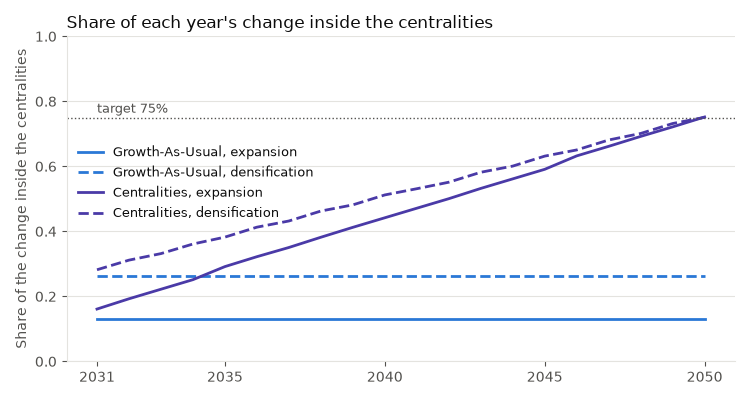
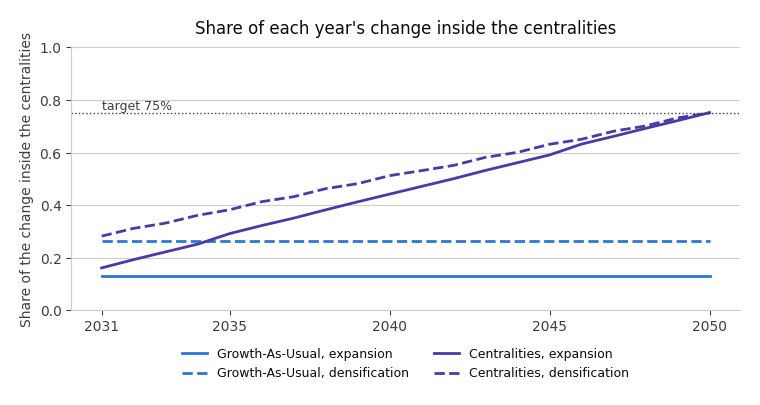
Fix the layout and contrast of the README figures
Centre the maps and titles, use a darker grey for the built-up cells, split the
long panel titles over two lines and move the legends below the plots.

diff --git a/docs/make_figures.py b/docs/make_figures.py
@@ -12,6 +12,7 @@ import rasterio
 import matplotlib
 matplotlib.use("Agg")
 import matplotlib.pyplot as plt
+from matplotlib.colors import ListedColormap
 
 from SuSceMod.simulation import data_utilities, input_handling, scenarios
 
@@ -24,7 +25,8 @@ SCENARIOS = [
     ("density_based", "Density-based", "#eb6834"),
     ("densification_only", "Densification-only", "#1baf7a"),
 ]
-INK, MUTED, GRID = "#0b0b0b", "#52514e", "#e4e3df"
+INK, MUTED, GRID = "#0b0b0b", "#3f3e3b", "#cfcdc8"
+BASE_GREY = "#97958f"  # the built-up cells before the simulation, dark enough to see on white
 
 plt.rcParams.update({
     "figure.facecolor": "white", "axes.facecolor": "white", "savefig.facecolor": "white",
@@ -38,34 +40,67 @@ def read(path):
         return src.read(1)
 
 
+def built_up_extent(built_up, pad=20):
+    """Column and row limits around the built-up cells, and the height / width of that box."""
+    rows, cols = np.nonzero(built_up > 0)
+    xlim = (cols.min() - pad, cols.max() + pad)
+    ylim = (rows.max() + pad, rows.min() - pad)
+    return xlim, ylim, (ylim[0] - ylim[1]) / (xlim[1] - xlim[0])
+
+
+def map_figure(n_panels, ratio, panel_title_lines=1, width=7.0, margin=0.35):
+    """
+    A figure of n_panels maps below each other. Every map has exactly the shape of the study area and sits
+    in the middle of the figure, with its title centred above it.
+    """
+    title_h = 0.3 + 0.2 * panel_title_lines
+    top, bottom = 0.75, 0.2
+    panel_h = width * ratio
+    fig_w = width + 2 * margin
+    fig_h = top + n_panels * (panel_h + title_h) + bottom
+    fig = plt.figure(figsize=(fig_w, fig_h))
+    axes = []
+    for i in range(n_panels):
+        y_bottom = fig_h - top - (i + 1) * (panel_h + title_h)   # title_h of space above every map for its title
+        ax = fig.add_axes([margin / fig_w, y_bottom / fig_h, width / fig_w, panel_h / fig_h])
+        axes.append(ax)
+    return fig, axes, fig_h
+
+
+def draw_map(ax, start, changed, color, xlim, ylim, title):
+    """The built-up cells before the simulation in grey, the cells that changed in colour."""
+    ax.imshow(np.where(start > 0, 0.0, np.nan), cmap=ListedColormap([BASE_GREY]), vmin=0, vmax=1,
+              interpolation="nearest")
+    rows, cols = np.nonzero(changed)
+    ax.scatter(cols, rows, s=1.6, color=color, linewidths=0)
+    ax.set_xlim(*xlim)
+    ax.set_ylim(*ylim)
+    ax.set_aspect("equal")
+    ax.set_title(title, loc="center", fontsize=11, pad=8)
+    ax.set_xticks([])
+    ax.set_yticks([])
+    for spine in ax.spines.values():
+        spine.set_visible(False)
+
+
 def figure_changes():
     start = read(os.path.join(EXAMPLES, "input_rasters", "BU_2020.tif"))
-    fig, axes = plt.subplots(len(SCENARIOS), 1, figsize=(8, 3.2 * len(SCENARIOS)))
-    rows_b, cols_b = np.nonzero(start > 0)
-    pad = 20
+    xlim, ylim, ratio = built_up_extent(start)
+    fig, axes, fig_h = map_figure(len(SCENARIOS), ratio)
     for ax, (folder, label, color) in zip(axes, SCENARIOS):
         end = read(os.path.join(EXAMPLES, "output", folder, "sim_2030.tif"))
         changed = (end != start) & ~np.isnan(end)
-        ax.imshow(np.where(start > 0, 1.0, np.nan), cmap="Greys", vmin=0, vmax=3, interpolation="nearest")
-        rows, cols = np.nonzero(changed)
-        ax.scatter(cols, rows, s=2.5, color=color, linewidths=0)
-        ax.set_title(f"{label}: {int(changed.sum()):,} cells changed", loc="left", fontsize=11)
-        ax.set_xlim(cols_b.min() - pad, cols_b.max() + pad)
-        ax.set_ylim(rows_b.max() + pad, rows_b.min() - pad)
-        ax.set_xticks([])
-        ax.set_yticks([])
-        for spine in ax.spines.values():
-            spine.set_visible(False)
-    fig.suptitle("Cells that change between 2020 and 2030 (grey = built-up in 2020)", x=0.01, ha="left", fontsize=12)
-    fig.tight_layout(rect=(0, 0, 1, 0.97))
-    fig.savefig(os.path.join(OUT, "scenario_changes.png"), dpi=100, bbox_inches="tight", pad_inches=0.15)
+        draw_map(ax, start, changed, color, xlim, ylim, f"{label}: {int(changed.sum()):,} cells changed")
+    fig.suptitle("Cells that change between 2020 and 2030\n(grey = built-up in 2020)", x=0.5, y=1 - 0.1 / fig_h,
+                 ha="center", va="top", fontsize=12)
+    fig.savefig(os.path.join(OUT, "scenario_changes.png"), dpi=100)
     plt.close(fig)
 
 
 def figure_trends():
     start = read(os.path.join(EXAMPLES, "input_rasters", "BU_2020.tif"))
     start_counts = {c: int(np.sum(start == c)) for c in range(4)}
-    fig, axes = plt.subplots(1, 4, figsize=(12, 3.4), sharex=True)
+    fig, axes = plt.subplots(1, 4, figsize=(12, 4), sharex=True)
     for folder, label, color in SCENARIOS:
         df = pd.read_csv(os.path.join(EXAMPLES, "output", folder, "class_counts_2020_2030.csv"), index_col=0)
         df = df[~df.index.astype(str).isin(["nan"])]
@@ -74,17 +109,18 @@ def figure_trends():
             values = [0] + list(df.loc[float(c)].values - start_counts[c])
             ax.plot(years, values, color=color, linewidth=2, label=label)
     for ax, c in zip(axes, range(4)):
-        ax.set_title(f"Class {c}", loc="left", fontsize=11)
-        ax.axhline(0, color=GRID, linewidth=1)
+        ax.set_title(f"Class {c}", loc="center", fontsize=11)
+        ax.axhline(0, color=MUTED, linewidth=1)
         ax.grid(axis="y", color=GRID, linewidth=0.8)
         ax.set_axisbelow(True)
         ax.set_xticks([2020, 2025, 2030])
         for side in ("top", "right"):
             ax.spines[side].set_visible(False)
     axes[0].set_ylabel("Change in cells since 2020")
-    axes[0].legend(frameon=False, fontsize=9, loc="best")
-    fig.suptitle("Change in cell count per density class", x=0.01, ha="left", fontsize=12)
-    fig.tight_layout(rect=(0, 0, 1, 0.94))
+    handles, labels = axes[0].get_legend_handles_labels()
+    fig.legend(handles, labels, loc="lower center", ncol=len(SCENARIOS), frameon=False, fontsize=10)
+    fig.suptitle("Change in cell count per density class", x=0.5, ha="center", fontsize=12)
+    fig.tight_layout(rect=(0, 0.08, 1, 0.94))
     fig.savefig(os.path.join(OUT, "class_trends.png"), dpi=100)
     plt.close(fig)
 
@@ -128,30 +164,20 @@ def centralities_runs():
 def figure_centralities_maps(runs):
     start_2030, gau, centralities, zones = runs
     built_up = read(os.path.join(EXAMPLES, "input_rasters", "BU_2020.tif"))
-    rows_b, cols_b = np.nonzero(built_up > 0)
-    pad = 20
+    xlim, ylim, ratio = built_up_extent(built_up)
     panels = [("Growth-As-Usual", GAU_COLOR, gau[2050]), ("Centralities", CENTRALITIES_COLOR, centralities[2050])]
 
-    fig, axes = plt.subplots(len(panels), 1, figsize=(8, 3.4 * len(panels)))
+    fig, axes, fig_h = map_figure(len(panels), ratio, panel_title_lines=2)
     for ax, (label, color, end) in zip(axes, panels):
         changed = (end != start_2030) & ~np.isnan(end)
         exp_share, dens_share = input_handling.calculate_central_shares(start_2030, end, zones, decimals=2)
-        ax.imshow(np.where(start_2030 > 0, 1.0, np.nan), cmap="Greys", vmin=0, vmax=3, interpolation="nearest")
-        ax.contour((zones == 1).astype(float), levels=[0.5], colors=INK, linewidths=0.5)
-        rows, cols = np.nonzero(changed)
-        ax.scatter(cols, rows, s=2.5, color=color, linewidths=0)
-        ax.set_title(f"{label}: {int(changed.sum()):,} cells changed, {exp_share:.0%} of the expansion and "
-                     f"{dens_share:.0%} of the densification inside the centralities", loc="left", fontsize=10)
-        ax.set_xlim(cols_b.min() - pad, cols_b.max() + pad)
-        ax.set_ylim(rows_b.max() + pad, rows_b.min() - pad)
-        ax.set_xticks([])
-        ax.set_yticks([])
-        for spine in ax.spines.values():
-            spine.set_visible(False)
-    fig.suptitle("Cells that change between 2030 and 2050 (grey = built-up in 2030, black line = centralities)",
-                 x=0.01, ha="left", fontsize=12)
-    fig.tight_layout(rect=(0, 0, 1, 0.97))
-    fig.savefig(os.path.join(OUT, "centralities_maps.png"), dpi=100, bbox_inches="tight", pad_inches=0.15)
+        title = (f"{label}: {int(changed.sum()):,} cells changed\n"
+                 f"{exp_share:.0%} of the expansion and {dens_share:.0%} of the densification inside the centralities")
+        draw_map(ax, start_2030, changed, color, xlim, ylim, title)
+        ax.contour((zones == 1).astype(float), levels=[0.5], colors=INK, linewidths=0.6)
+    fig.suptitle("Cells that change between 2030 and 2050\n(grey = built-up in 2030, black line = centralities)",
+                 x=0.5, y=1 - 0.1 / fig_h, ha="center", va="top", fontsize=12)
+    fig.savefig(os.path.join(OUT, "centralities_maps.png"), dpi=100)
     plt.close(fig)
 
 
@@ -176,10 +202,11 @@ def figure_centralities_shares(runs):
     ax.set_ylabel("Share of the change inside the centralities")
     for side in ("top", "right"):
         ax.spines[side].set_visible(False)
-    ax.legend(frameon=False, fontsize=9, loc="center left", bbox_to_anchor=(0.0, 0.55))
-    ax.set_title("Share of each year's change inside the centralities", loc="left", fontsize=12)
+    # the legend below the plot, so it does not cover the lines
+    ax.legend(frameon=False, fontsize=9, loc="upper center", bbox_to_anchor=(0.5, -0.1), ncol=2)
+    ax.set_title("Share of each year's change inside the centralities", loc="center", fontsize=12, pad=10)
     fig.tight_layout()
-    fig.savefig(os.path.join(OUT, "centralities_shares.png"), dpi=100, bbox_inches="tight", pad_inches=0.15)
+    fig.savefig(os.path.join(OUT, "centralities_shares.png"), dpi=100, bbox_inches="tight", pad_inches=0.2)
     plt.close(fig)
 
 
